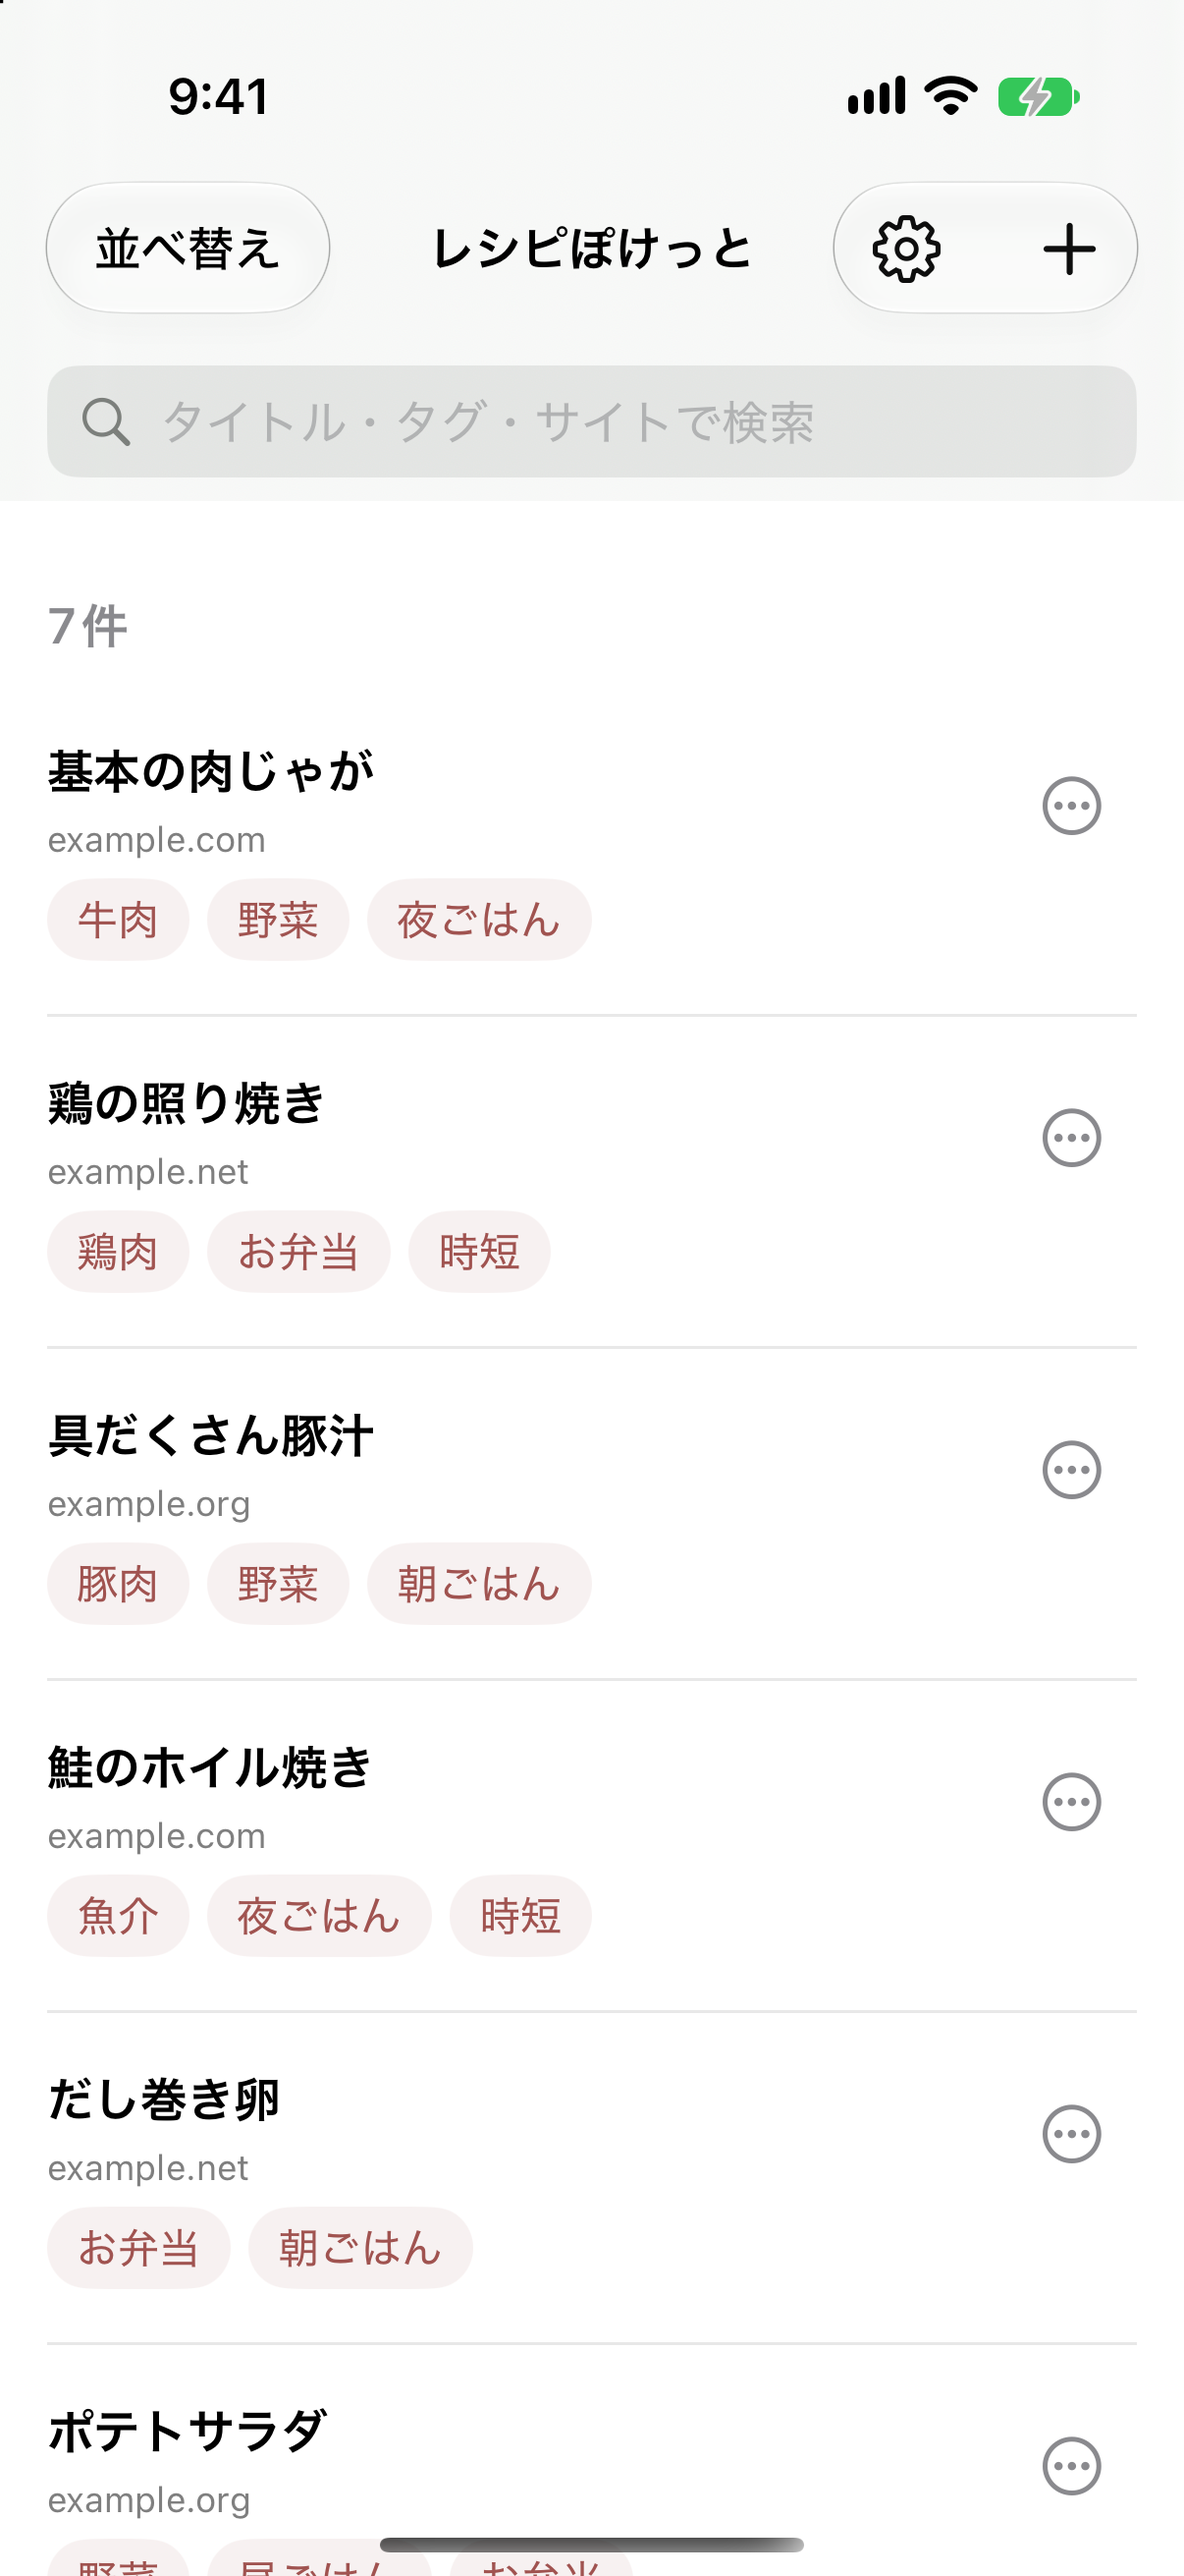
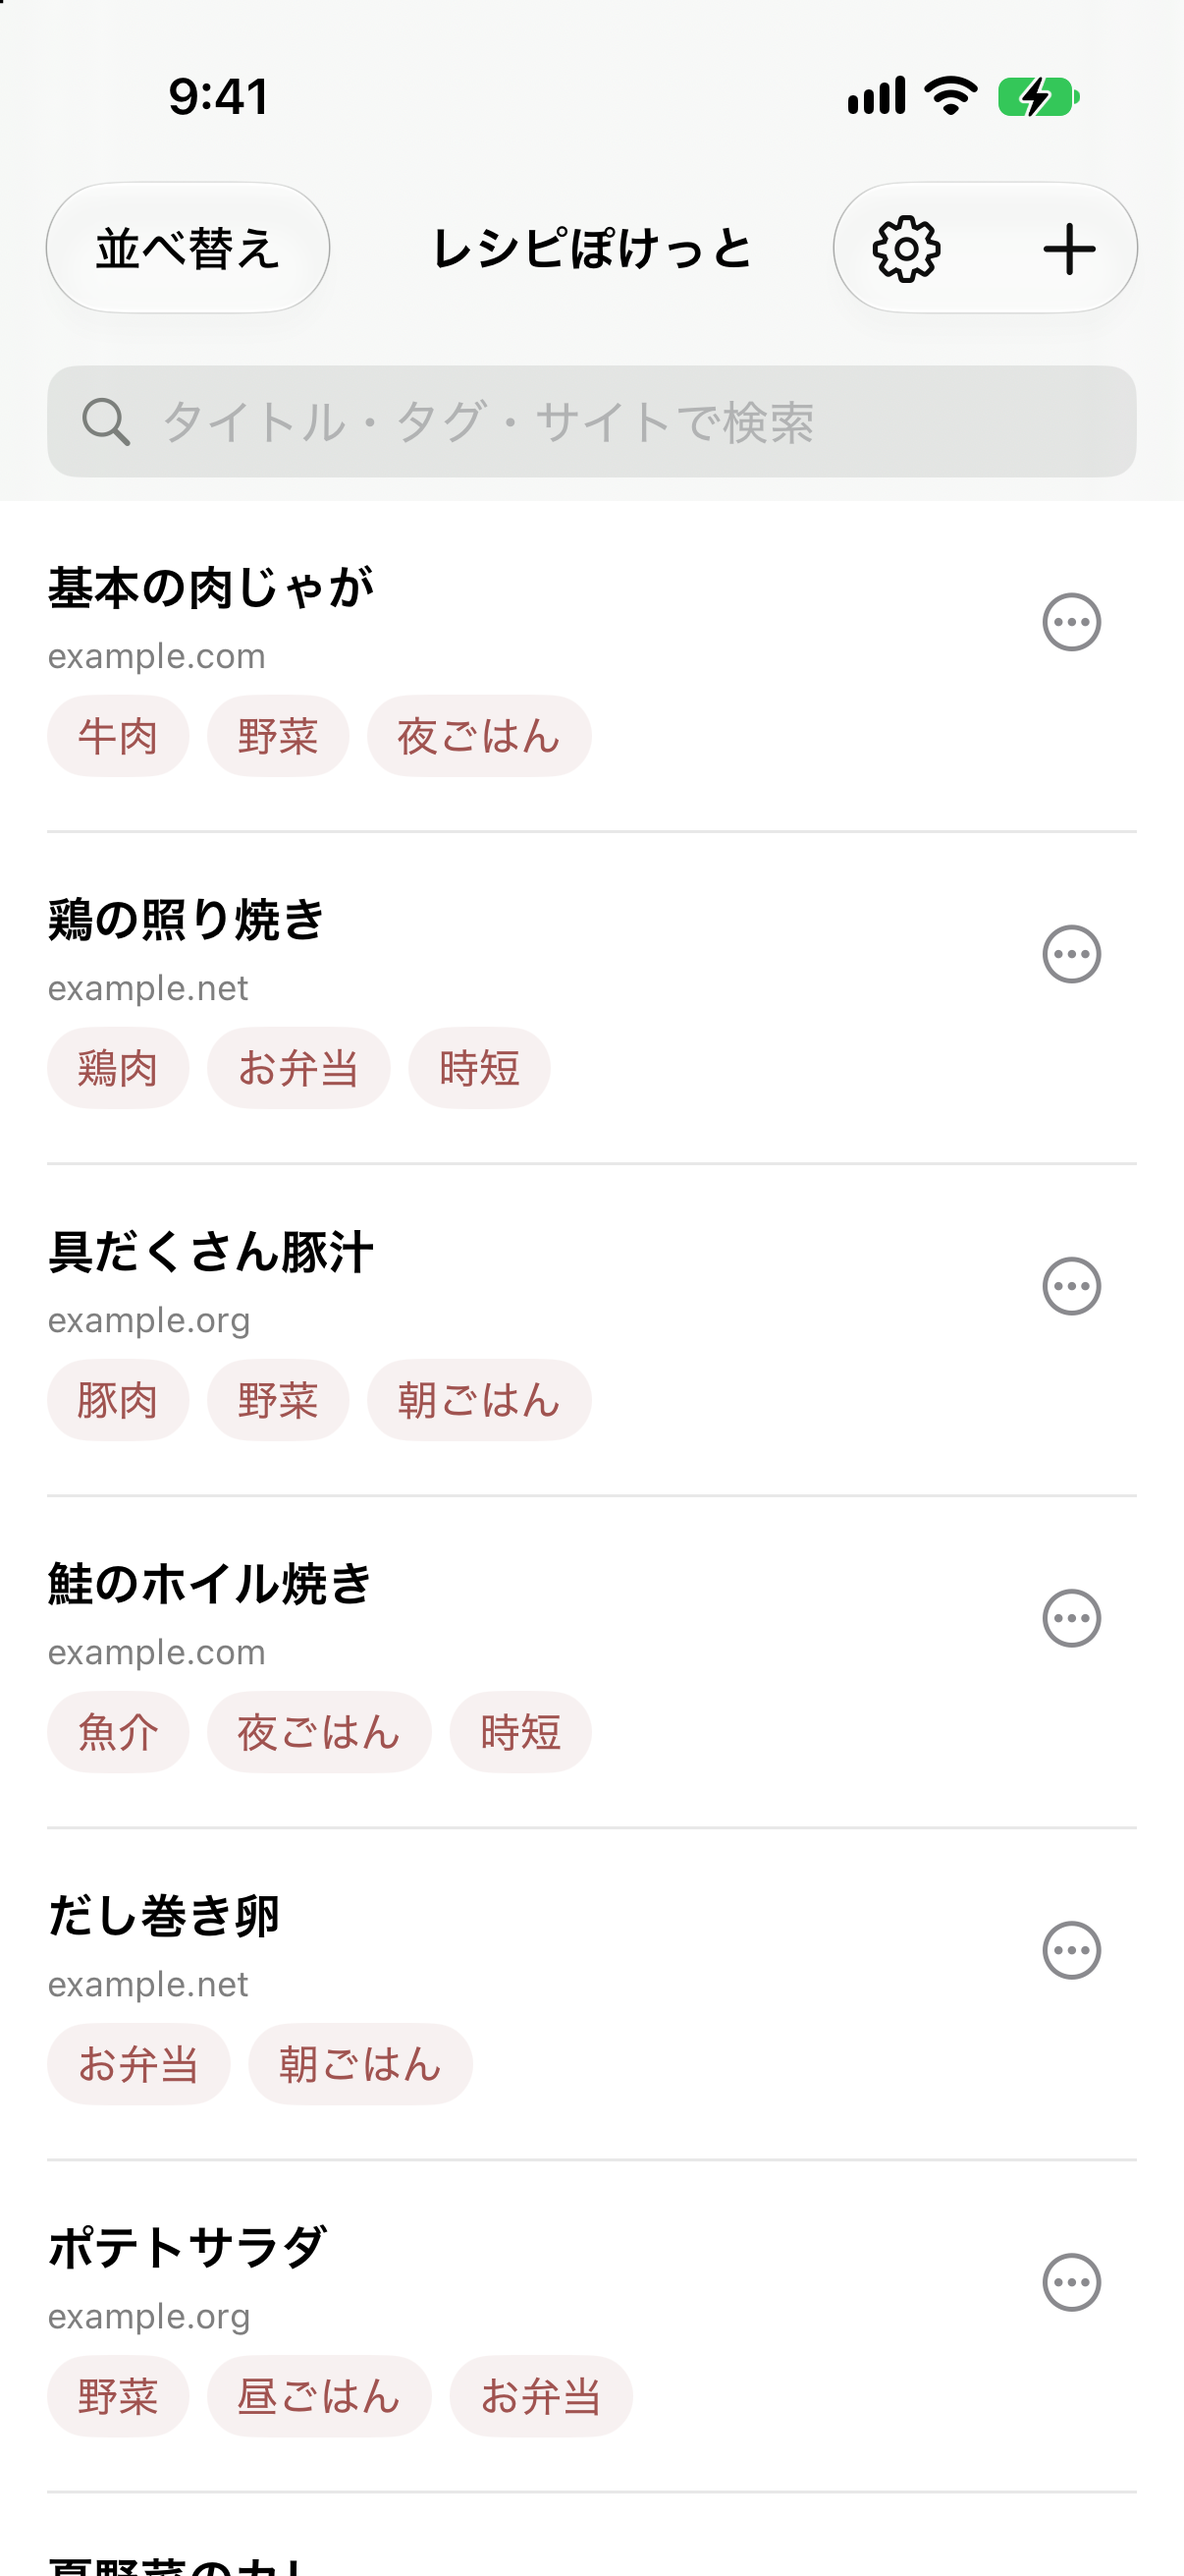
feat: 一覧の上の件数の表示をやめる
登録した件数は、使う人にとって意味のある情報ではないため、検索欄の下の件数（絞り込み中は「3件（全7件）」の形）を出さない。見出しがなくなると最初の行の上に区切り線が出るため、その線は出さない。App Store 用のスクリーンショットのうち、件数が写っていた一覧と絞り込みの2枚を撮り直す。

diff --git a/RecipePocket/Views/RecipeListView.swift b/RecipePocket/Views/RecipeListView.swift
@@ -54,11 +54,9 @@ struct RecipeListView: View {
                     .listRowBackground(highlightedID == recipe.id ? Color("AccentColor").opacity(0.15) : nil)
                 }
                 .onMove(perform: isReordering ? { store.move(fromOffsets: $0, toOffset: $1) } : nil)
-            } header: {
-                if !store.recipes.isEmpty {
-                    Text(countText)
-                }
             }
+            // 検索欄との境目は背景の色で分かるため、最初の行の上には区切り線を出さない
+            .listSectionSeparator(.hidden, edges: .top)
         }
         .listStyle(.plain)
         .environment(\.editMode, .constant(isReordering ? .active : .inactive))
@@ -89,10 +87,6 @@ struct RecipeListView: View {
             }
             .disabled(isReordering)
         }
-    }
-
-    private var countText: String {
-        store.search.isEmpty ? "\(store.recipes.count.formatted())件" : "\(store.results.count.formatted())件（全\(store.recipes.count.formatted())件）"
     }
 
     @ViewBuilder
